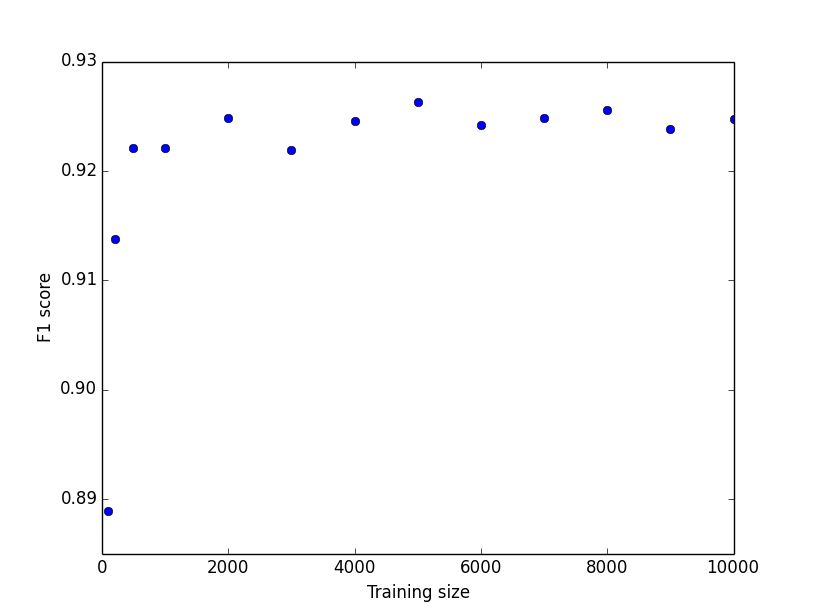
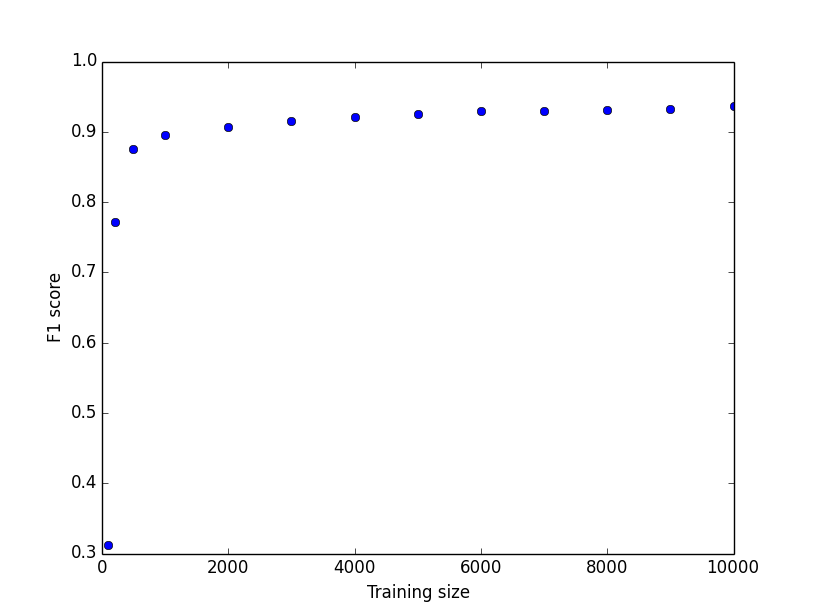
use matrices for week 5
git-svn-id: http://svn.codalism.com/svn/comp90042-2014s1/xxu@1587 1e191c3d-2cf9-4e68-b3ea-b23acec113d7

diff --git a/workshops/week05/q8/main.py b/workshops/week05/q8/main.py
@@ -1,67 +1,42 @@
 
-import numpy as np
-import scipy as sp
-import scipy.sparse
-import pymongo
+import time
+import pickle
 import matplotlib.pyplot as plt
 from sklearn.svm import SVC
+from workshops.lib.classif import get_train_test
 from workshops.lib.classif_eval import ConfusionMatrix
-from workshops.lib.classif_data import parse_lyrl_topics
-
-def labelled_docs_to_bin_label_vect(docs, doc_class):
-    return np.array(list(1 if doc_class in doc_classes else 0 for doc_id, doc_classes in docs))
-
-def get_all_terms(docs_db):
-    all_terms = set()
-    for doc in docs_db.find():
-        all_terms.update(doc['weights'].keys())
-    # sort to be more deterministic
-    return sorted(all_terms)
-
-def docs_to_matrix(docs, all_terms, docs_db):
-    # convert to sklearn format
-    all_terms_dict = dict((term, i) for i, term in enumerate(all_terms))
-    x_rows = []
-    for doc in docs:
-        col = []
-        data = []
-        for term, weight in docs_db.find_one({'doc_id': doc})['weights'].items():
-            col.append(all_terms_dict[term])
-            data.append(weight)
-        row = np.zeros(len(col))
-        x_row = sp.sparse.coo_matrix((data, (row, col)), shape=(1, len(all_terms)))
-        x_rows.append(x_row)
-    x = sp.sparse.vstack(x_rows)
-    return x
+from workshops.lib.weights import l2_norm_sparse
+from workshops.lib.features import get_tf_idf
 
 def main():
-    # get data
-    client = pymongo.MongoClient()
-    tfidf_db = client['websearch_workshops']['lyrl']['tfidf']
-    classif_data = parse_lyrl_topics('../../../../data/lyrl30k_tpcs.txt')
-    all_terms = get_all_terms(tfidf_db)
-    f1_scores = []
-    test_size = 10000
-    train_sizes = [100, 200, 500, 1000, 2000, 3000, 4000, 5000, 6000, 7000, 8000, 9000, 10000]
-    for train_size in train_sizes:
-        train_docs, test_docs = classif_data.get_train_test(train_size, test_size)
-        # train matrix
-        train_X = docs_to_matrix(list(doc_id for doc_id, doc_class in train_docs), all_terms, tfidf_db)
-        train_y = labelled_docs_to_bin_label_vect(train_docs, 'GCAT')
-        # test matrix
-        test_X = docs_to_matrix(list(doc_id for doc_id, doc_class in test_docs), all_terms, tfidf_db)
-        test_y = labelled_docs_to_bin_label_vect(test_docs, 'GCAT')
-        # classify
-        classifier = SVC(kernel='linear')
-        classifier.fit(train_X, train_y)
-        classified_y = classifier.predict(test_X)
-        # results
-        cf = ConfusionMatrix.generate(classified_y, test_y, 1, 0)
-        f1_scores.append(cf.f1())
-    plt.plot(train_sizes, f1_scores, marker='o', linestyle='None')
-    plt.xlabel('Training size')
-    plt.ylabel('F1 score')
-    plt.show()
+    start = time.clock()
+    with open('../../../../data/pickle/lyrl.db', 'rb') as docs_sr, open('../../../../data/pickle/lyrl_classif.db', 'rb') as classif_sr:
+        # noinspection PyArgumentList
+        docs_data = pickle.load(docs_sr)
+        # noinspection PyArgumentList
+        classif_data = pickle.load(classif_sr)
+        tf_idfs = l2_norm_sparse(get_tf_idf(docs_data.freq_matrix))
+        f1_scores = []
+        test_size = 10000
+        train_sizes = [100, 200, 500, 1000, 2000, 3000, 4000, 5000, 6000, 7000, 8000, 9000, 10000]
+        for train_size in train_sizes:
+            train_indexes, test_indexes = get_train_test(len(docs_data.docs), train_size, test_size)
+            train_X, train_Y = tf_idfs[train_indexes], classif_data.labels_matrix[train_indexes]
+            test_X, test_Y = tf_idfs[test_indexes], classif_data.labels_matrix[test_indexes]
+            train_y = train_Y[:,classif_data.label_indexes['GCAT']].T.toarray()[0]
+            test_y = test_Y[:,classif_data.label_indexes['GCAT']].T.toarray()[0]
+            # classify
+            classifier = SVC(kernel='linear')
+            classifier.fit(train_X, train_y)
+            predict_y = classifier.predict(test_X)
+            # results
+            cf = ConfusionMatrix.generate(predict_y, test_y)
+            f1_scores.append(cf.f1())
+        print('Took {:.6f} seconds'.format(time.clock()-start))
+        plt.plot(train_sizes, f1_scores, marker='o', linestyle='None')
+        plt.xlabel('Training size')
+        plt.ylabel('F1 score')
+        plt.show()
 
 if __name__ == '__main__':
     main()

diff --git a/workshops/week05/q7/main.py b/workshops/week05/q7/main.py
@@ -1,64 +1,35 @@
 
 import time
-import numpy as np
-import scipy as sp
-import scipy.sparse
-import pymongo
+import pickle
 from sklearn.svm import SVC
+from workshops.lib.classif import get_train_test
 from workshops.lib.classif_eval import ConfusionMatrix
-from workshops.lib.classif_data import parse_lyrl_topics
-
-def labelled_docs_to_bin_label_vect(docs, doc_class):
-    return np.array(list(1 if doc_class in doc_classes else 0 for doc_id, doc_classes in docs))
-
-def get_all_terms(docs_db):
-    all_terms = set()
-    for doc in docs_db.find():
-        all_terms.update(doc['weights'].keys())
-    # sort to be more deterministic
-    return sorted(all_terms)
-
-def docs_to_matrix(docs, all_terms, docs_db):
-    # convert to sklearn format
-    all_terms_dict = dict((term, i) for i, term in enumerate(all_terms))
-    x_rows = []
-    for doc in docs:
-        col = []
-        data = []
-        for term, weight in docs_db.find_one({'doc_id': doc})['weights'].items():
-            col.append(all_terms_dict[term])
-            data.append(weight)
-        row = np.zeros(len(col))
-        x_row = sp.sparse.coo_matrix((data, (row, col)), shape=(1, len(all_terms)))
-        x_rows.append(x_row)
-    x = sp.sparse.vstack(x_rows)
-    return x
+from workshops.lib.weights import l2_norm_sparse
+from workshops.lib.features import get_tf_idf
 
 def main():
     start = time.clock()
-    # get data
-    client = pymongo.MongoClient()
-    tfidf_db = client['websearch_workshops']['lyrl']['tfidf']
-    classif_data = parse_lyrl_topics('../../../../data/lyrl30k_tpcs.txt')
-    train_docs, test_docs = classif_data.get_train_test(2000, 500)
-    # all terms
-    all_terms = get_all_terms(tfidf_db)
-    # train matrix
-    train_X = docs_to_matrix(list(doc_id for doc_id, doc_class in train_docs), all_terms, tfidf_db)
-    train_y = labelled_docs_to_bin_label_vect(train_docs, 'GCAT')
-    # test matrix
-    test_X = docs_to_matrix(list(doc_id for doc_id, doc_class in test_docs), all_terms, tfidf_db)
-    test_y = labelled_docs_to_bin_label_vect(test_docs, 'GCAT')
-    # classify
-    classifier = SVC(kernel='linear')
-    classifier.fit(train_X, train_y)
-    classified_y = classifier.predict(test_X)
-    # results
-    cf = ConfusionMatrix.generate(classified_y, test_y, 1, 0)
-    print('TP: {}, FP: {}, TN: {}, FN: {}'.format(cf.tp, cf.fp, cf.tn, cf.fn))
-    print('Accuracy: {}'.format(cf.accuracy()))
-    print('F1 Score: {}'.format(cf.f1()))
-    print('Took {:.6f} seconds'.format(time.clock()-start))
+    with open('../../../../data/pickle/lyrl.db', 'rb') as docs_sr, open('../../../../data/pickle/lyrl_classif.db', 'rb') as classif_sr:
+        # noinspection PyArgumentList
+        docs_data = pickle.load(docs_sr)
+        # noinspection PyArgumentList
+        classif_data = pickle.load(classif_sr)
+        tf_idfs = l2_norm_sparse(get_tf_idf(docs_data.freq_matrix))
+        train_indexes, test_indexes = get_train_test(len(docs_data.docs), 2000, 500)
+        train_X, train_Y = tf_idfs[train_indexes], classif_data.labels_matrix[train_indexes]
+        test_X, test_Y = tf_idfs[test_indexes], classif_data.labels_matrix[test_indexes]
+        train_y = train_Y[:,classif_data.label_indexes['GCAT']].T.toarray()[0]
+        test_y = test_Y[:,classif_data.label_indexes['GCAT']].T.toarray()[0]
+        # classify
+        classifier = SVC(kernel='linear')
+        classifier.fit(train_X, train_y)
+        predict_y = classifier.predict(test_X)
+        # results
+        cf = ConfusionMatrix.generate(predict_y, test_y)
+        print('TP: {}, FP: {}, TN: {}, FN: {}'.format(cf.tp, cf.fp, cf.tn, cf.fn))
+        print('Accuracy: {}'.format(cf.accuracy()))
+        print('F1 Score: {}'.format(cf.f1()))
+        print('Took {:.6f} seconds'.format(time.clock()-start))
 
 if __name__ == '__main__':
     main()

diff --git a/workshops/week05/q6/main.py b/workshops/week05/q6/main.py
@@ -22,9 +22,9 @@ def main():
         # classify
         classifier = KNN(lambda X, Y: -X*Y.T)
         classifier.fit(train_X, train_y)
-        predict_y = classifier.predict(test_X, 11)
+        predict_y = classifier.predict(test_X, 35)
         # results
-        cf = ConfusionMatrix.generate(test_y, predict_y)
+        cf = ConfusionMatrix.generate(predict_y, test_y)
         print('TP: {}, FP: {}, TN: {}, FN: {}'.format(cf.tp, cf.fp, cf.tn, cf.fn))
         print('Accuracy: {}'.format(cf.accuracy()))
         print('F1 Score: {}'.format(cf.f1()))

diff --git a/workshops/week05/q3/main.py b/workshops/week05/q3/main.py
@@ -33,7 +33,7 @@ def main():
         predict_y = classifier.predict(test_X)
         # get accuracy
         num_incorrect = 0
-        for test_label_row, predict_label in zip(predict_y, test_Y):
+        for test_label_row, predict_label in zip(test_Y, predict_y):
             if not test_label_row[:,predict_label].data:
                 num_incorrect += 1
         print('Classified incorrectly {:.2f}% labels'.format(num_incorrect/test_X.shape[0]*100))

diff --git a/workshops/week05/q4/main.py b/workshops/week05/q4/main.py
@@ -24,7 +24,7 @@ def main():
         classifier.fit(train_X, train_y)
         predict_y = classifier.predict(test_X)
         # results
-        cf = ConfusionMatrix.generate(test_y, predict_y)
+        cf = ConfusionMatrix.generate(predict_y, test_y)
         print('TP: {}, FP: {}, TN: {}, FN: {}'.format(cf.tp, cf.fp, cf.tn, cf.fn))
         print('Accuracy: {}'.format(cf.accuracy()))
         print('F1 Score: {}'.format(cf.f1()))
